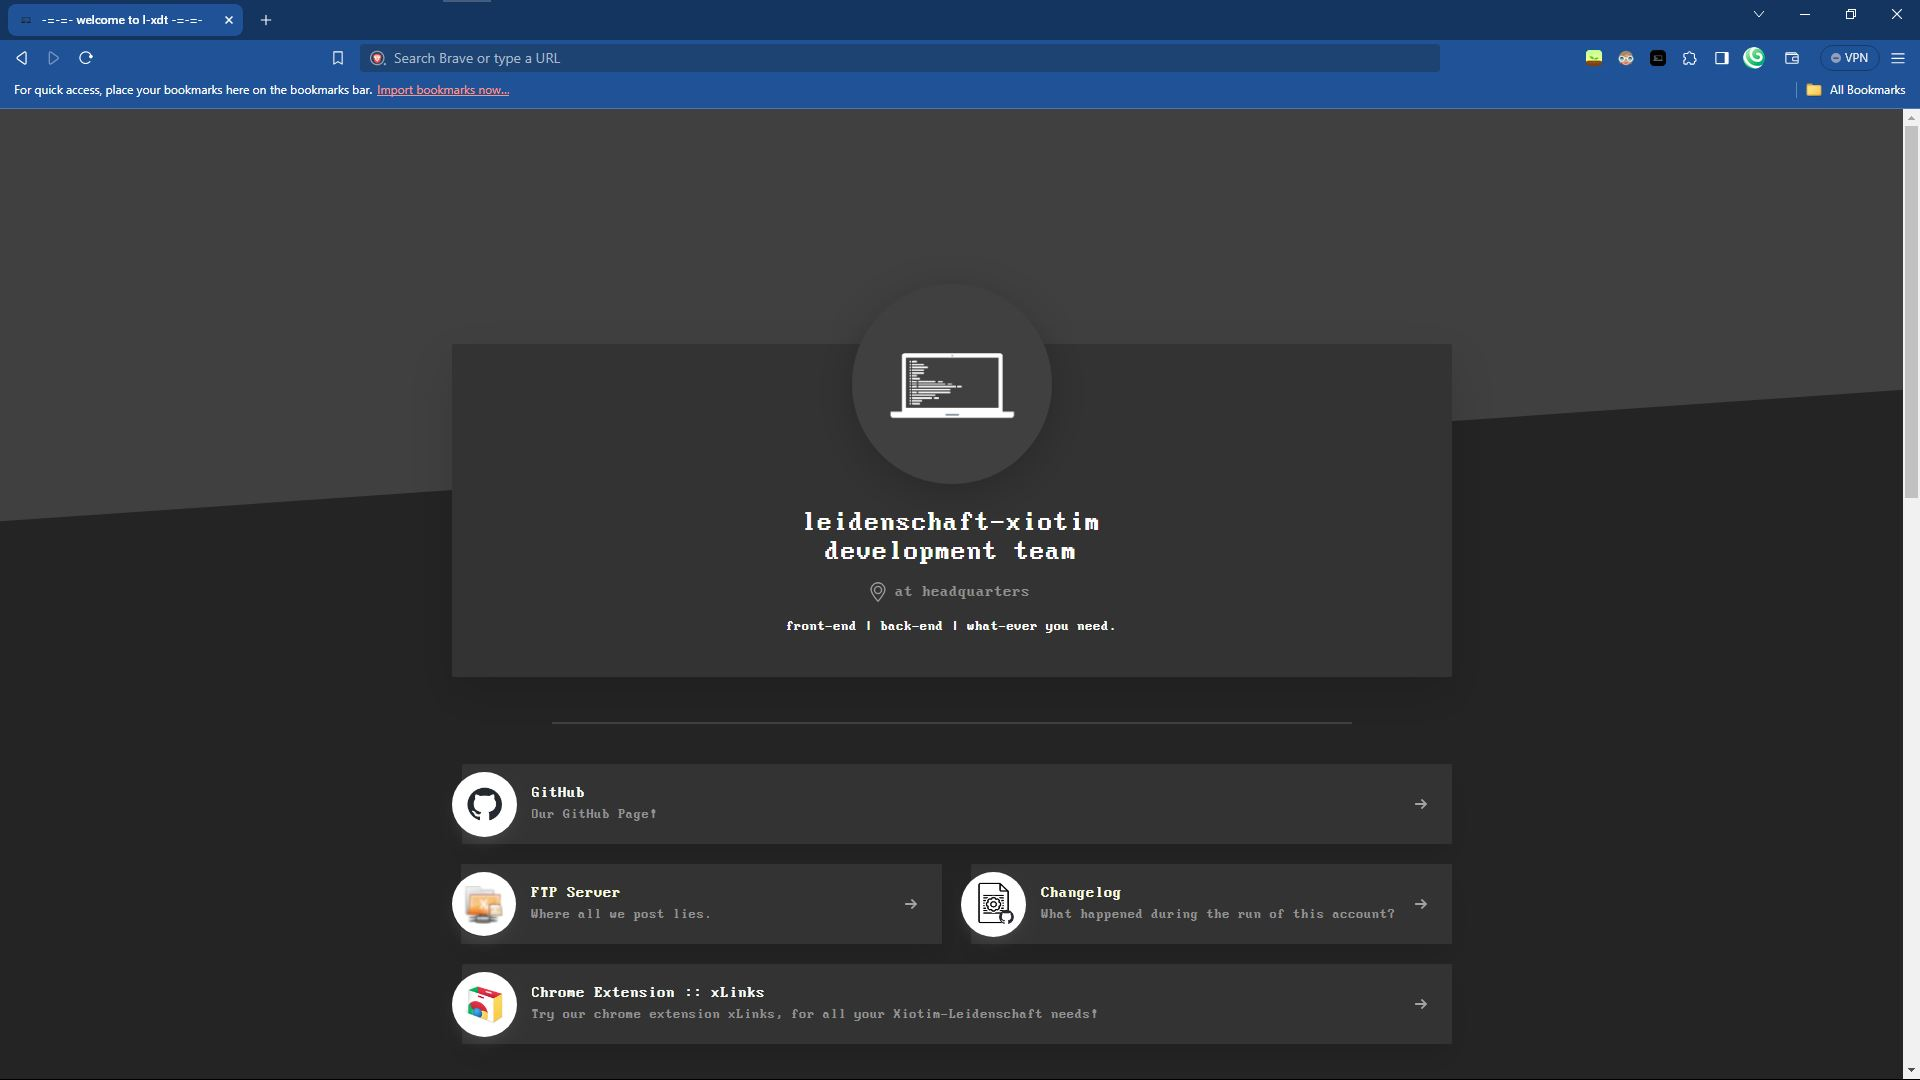
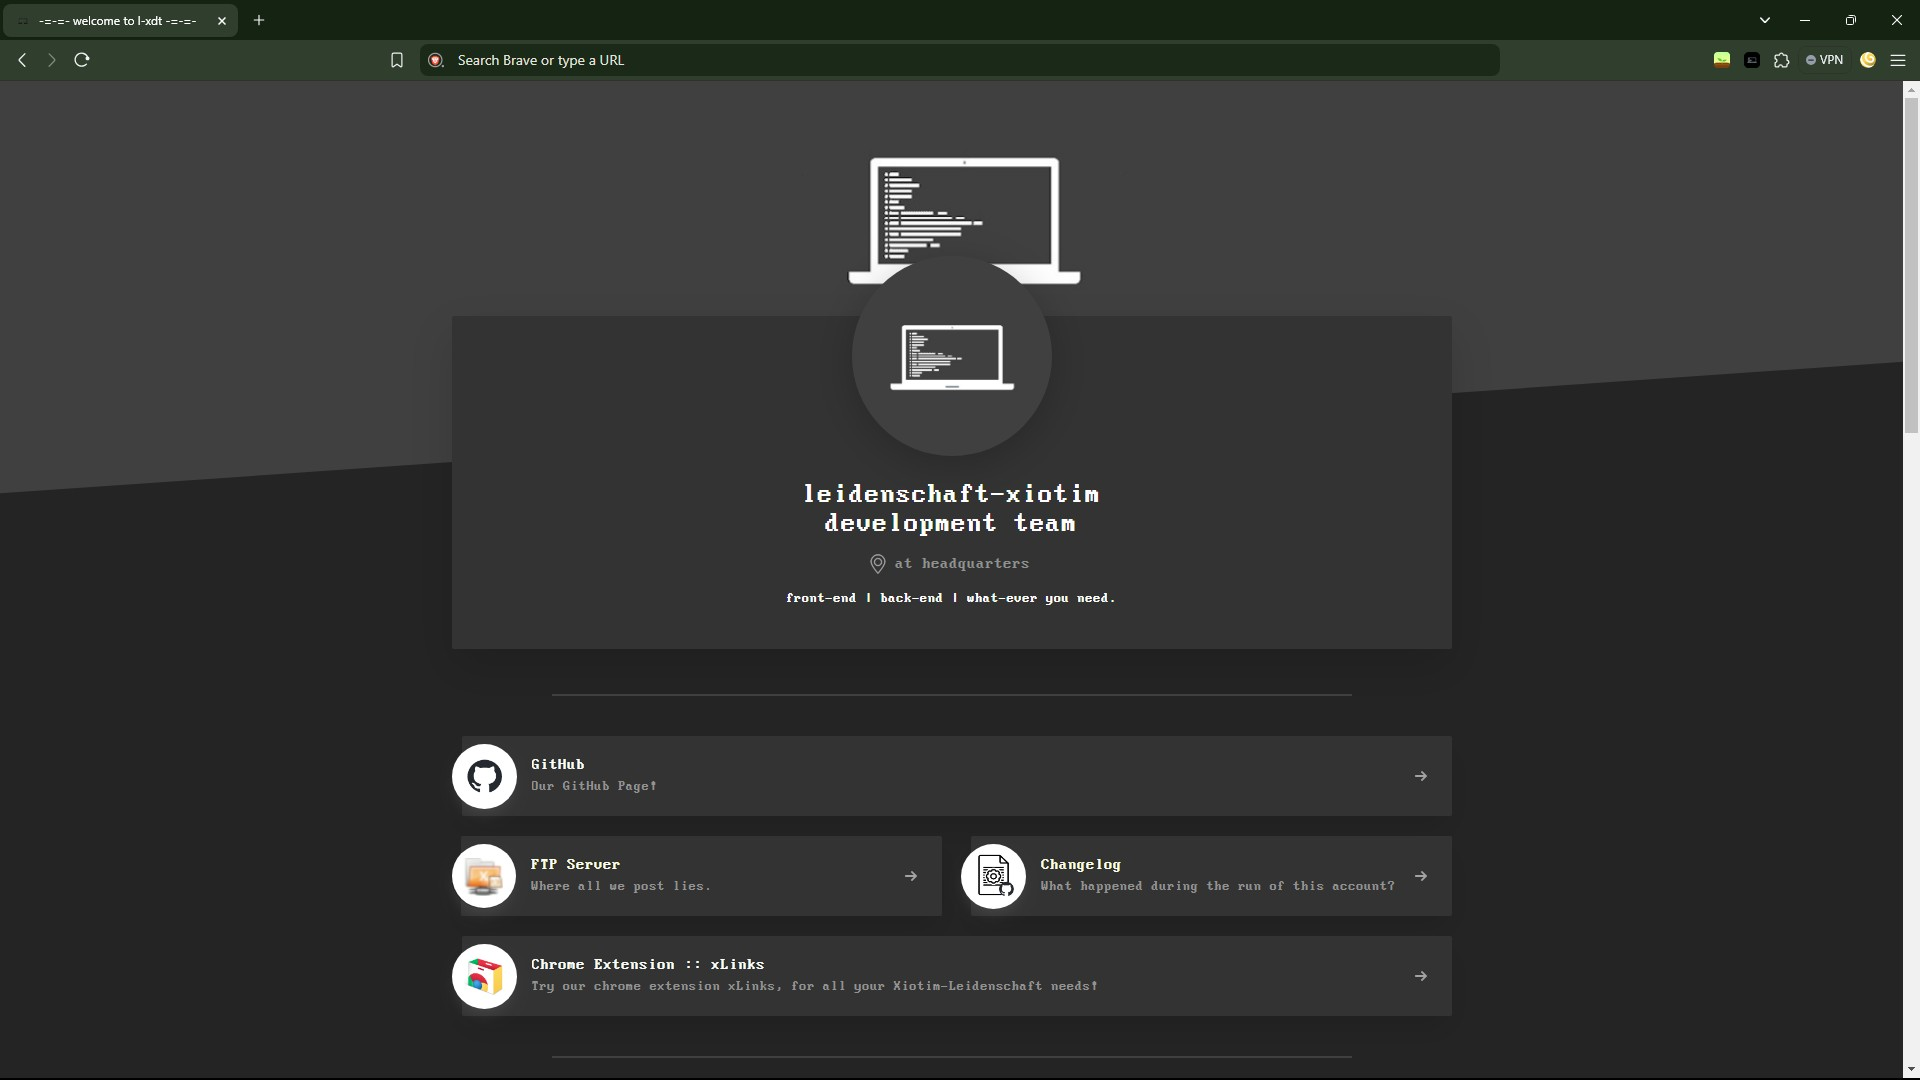
Hey!
Hey, It's been a while. I realized that there was some bug fixes I needed to roll out, and re-did the Screenshots, and most importantly added a background image.

diff --git a/stylization/style.css b/stylization/style.css
@@ -600,7 +600,6 @@
     border: 1px solid var(--solo-blue);
   }
   .profile-bg-hero-wrapper {
-    background-image: url("https://solo.to/images/stars.jpg");
     background-position: 50%;
     background-repeat: no-repeat;
     background-size: cover;
@@ -3439,7 +3438,7 @@
   .select-field {
     background-color: var(--ultragrey);
     cursor: pointer;
-    background-image: url("https://solo.to/images/feature-arrow.svg");
+    background-image: url("../svg/feature-arrow.svg");
     background-position: 98%;
     background-repeat: no-repeat;
     background-size: auto 11px;
@@ -3810,7 +3809,7 @@
   }
   .style-logo-preview {
     background-color: #e6e6e6;
-    background-image: url("https://solo.to/images/checker.svg");
+    background-image: url("../svg/checker.svg");
     background-position: 0 0;
     background-size: 13px;
     border-radius: 1px;
@@ -6690,7 +6689,7 @@
     box-shadow: 0 14px 30px -5px #00000021;
   }
   .display-link-image {
-    background-image: url("https://solo.to/images/pexels-photo-2618782.jpg");
+    background-image: none;
     background-position: 50%;
     background-repeat: no-repeat;
     background-size: cover;
@@ -6756,7 +6755,7 @@
   }
   .music-page-links-bg {
     filter: blur(25px);
-    background-image: url("https://solo.to/images/pexels-photo-4906295.jpg");
+    background-image: none;
     background-repeat: no-repeat;
     background-size: cover;
     position: absolute;
@@ -6839,7 +6838,7 @@
   .payout-checkbox.w--redirected-checked {
     border-color: var(--solo-blue);
     background-color: var(--solo-blue);
-    background-image: url("https://solo.to/images/white-check.svg");
+    background-image: url("../svg/white-check.svg");
     background-position: 50%;
     background-size: 11px 10px;
   }
@@ -6976,7 +6975,6 @@
   }
   .tiktok-pattern-overlay {
     opacity: 0.1;
-    background-image: url("https://solo.to/images/tiktok-pattern.svg");
     background-position: 50%;
     background-size: 50px;
     position: absolute;
@@ -7113,7 +7111,7 @@
     margin-bottom: 25px;
   }
   .full-bg {
-    background-image: url("https://solo.to/images/pexels-guillaume-meurice-1894350.jpg");
+    background-image: none;
     background-position: 50%;
     background-size: auto;
     background-attachment: fixed;
@@ -7150,7 +7148,6 @@
     display: flex;
   }
   .nfc-hero-image-logo {
-    background-image: url("https://solo.to/images/solo.to.svg");
     background-position: 50%;
     background-size: cover;
     border: 1px solid #000;
@@ -7507,7 +7504,6 @@
   }
   .nfc-cta-details {
     border-right: 1px solid var(--toggle-grey);
-    background-image: url("https://solo.to/images/nfc-mockup-isometric.png");
     background-position: 50%;
     background-repeat: no-repeat;
     background-size: cover;
@@ -7703,7 +7699,6 @@
     position: relative;
   }
   .announcement-image {
-    background-image: url("https://solo.to/images/nfc-portal-indicator.png");
     background-position: 50%;
     background-repeat: no-repeat;
     background-size: cover;
@@ -7849,7 +7844,6 @@
   }
   .offer-item-image {
     border-right: 1px solid var(--toggle-grey);
-    background-image: url("https://solo.to/images/nfc-portal-indicator.png");
     background-position: 50%;
     background-repeat: no-repeat;
     background-size: cover;
@@ -8114,7 +8108,7 @@
   }
   .profile-search-field {
     background-color: var(--white);
-    background-image: url("https://solo.to/images/search-icon.svg");
+    background-image: url("../svg/search-icon.svg");
     background-position: 12px;
     background-repeat: no-repeat;
     background-size: auto 20px;
@@ -8145,7 +8139,7 @@
   .profile-search-field.profile-search-field-dark {
     background-color: var(--off-black);
     color: var(--white);
-    background-image: url("https://solo.to/images/search-white.svg");
+    background-image: url("../svg/search-white.svg");
   }
   .profile-search-field.profile-search-field-dark:hover {
     border-left-color: #5c5c5c;
@@ -8160,7 +8154,7 @@
   .profile-search-field.profile-search-field-void {
     color: var(--white);
     background-color: #1a1a1a;
-    background-image: url("https://solo.to/images/search-white.svg");
+    background-image: url("../svg/search-white.svg");
   }
   .profile-search-field.profile-search-field-void:hover {
     border-left-color: #5c5c5c;
@@ -9652,7 +9646,6 @@
     display: flex;
   }
   .s1-phone-bg {
-    background-image: url("https://solo.to/images/s1-bg.jpg");
     background-position: 50%;
     background-repeat: no-repeat;
     background-size: cover;
@@ -10258,7 +10251,7 @@
   }
   .billing-details-card-pattern {
     opacity: 0.5;
-    background-image: url("https://solo.to/images/bank-note.svg");
+    background-image: url("../svg/bank-note.svg");
     background-repeat: repeat;
     background-size: cover;
     position: absolute;
@@ -11496,7 +11489,6 @@
     z-index: 0;
     opacity: 0.06;
     filter: none;
-    background-image: url("https://solo.to/images/grid-pattern-dots.svg");
     background-position: 50% 0;
     background-size: 150px;
     position: absolute;
@@ -14098,7 +14090,6 @@
       grid-auto-columns: 1fr;
     }
     .profile-bg-hero-wrapper {
-      background-image: url("https://solo.to/images/stars.jpg");
       background-position: 50%;
       background-repeat: no-repeat;
       background-size: cover;
@@ -15745,7 +15736,6 @@
       border: 1px solid var(--solo-blue);
     }
     .profile-bg-hero-wrapper {
-      background-image: url("https://solo.to/images/stars.jpg");
       background-position: 50%;
       background-repeat: no-repeat;
       background-size: cover;
@@ -21835,7 +21825,7 @@
       box-shadow: 0 14px 30px -5px #00000021;
     }
     .display-link-image {
-      background-image: url("https://solo.to/images/pexels-photo-2618782.jpg");
+      background-image: none;
       background-position: 50%;
       background-repeat: no-repeat;
       background-size: cover;
@@ -21901,7 +21891,7 @@
     }
     .music-page-links-bg {
       filter: blur(25px);
-      background-image: url("https://solo.to/images/pexels-photo-4906295.jpg");
+      background-image: none;
       background-repeat: no-repeat;
       background-size: cover;
       position: absolute;
@@ -22250,7 +22240,7 @@
       margin-bottom: 25px;
     }
     .full-bg {
-      background-image: url("https://solo.to/images/pexels-guillaume-meurice-1894350.jpg");
+      background-image:  none;
       background-position: 50%;
       background-size: auto;
       background-attachment: fixed;
@@ -22628,7 +22618,6 @@
     }
     .nfc-cta-details {
       border-right: 1px solid var(--toggle-grey);
-      background-image: url("https://solo.to/images/nfc-mockup-isometric.png");
       background-position: 50%;
       background-repeat: no-repeat;
       background-size: cover;
@@ -22824,7 +22813,6 @@
       position: relative;
     }
     .announcement-image {
-      background-image: url("https://solo.to/images/nfc-portal-indicator.png");
       background-position: 50%;
       background-repeat: no-repeat;
       background-size: cover;
@@ -22970,7 +22958,6 @@
     }
     .offer-item-image {
       border-right: 1px solid var(--toggle-grey);
-      background-image: url("https://solo.to/images/nfc-portal-indicator.png");
       background-position: 50%;
       background-repeat: no-repeat;
       background-size: cover;
@@ -24773,7 +24760,6 @@
       display: flex;
     }
     .s1-phone-bg {
-      background-image: url("https://solo.to/images/s1-bg.jpg");
       background-position: 50%;
       background-repeat: no-repeat;
       background-size: cover;

diff --git a/index.html b/index.html
@@ -12,7 +12,7 @@
   </head>
   <body class="body-dark">
     <div class="page-wrapper page-wrapper-linkpage">
-      <div class="profile-bg-hero-wrapper" style="background-image:none;background-color:#404040">
+      <div class="profile-bg-hero-wrapper" style="background-image:url(svg/bg-img.jpg);background-color:#404040">
         <div class="slice-div slice-div-large slice-div-large-dark"></div>
       </div>
       <div class="section info-card">
